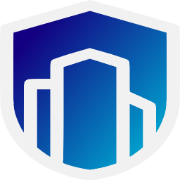
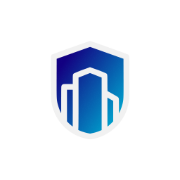
refactor: :recycle: Rebranding

diff --git a/README.md b/README.md
@@ -1,5 +1,5 @@
 <div style="text-align: center;">
-    <img src="https://github.com/victorradael/condoguard/blob/main/assets/condoguard-logo.png?raw=true" alt="CondoguardLogo"  height="200">
+    <img src="https://github.com/victorradael/condoguard/blob/main/assets/condoguard-logo.png?raw=true" alt="CondoguardLogo"  height="150">
 </div>
 
 
